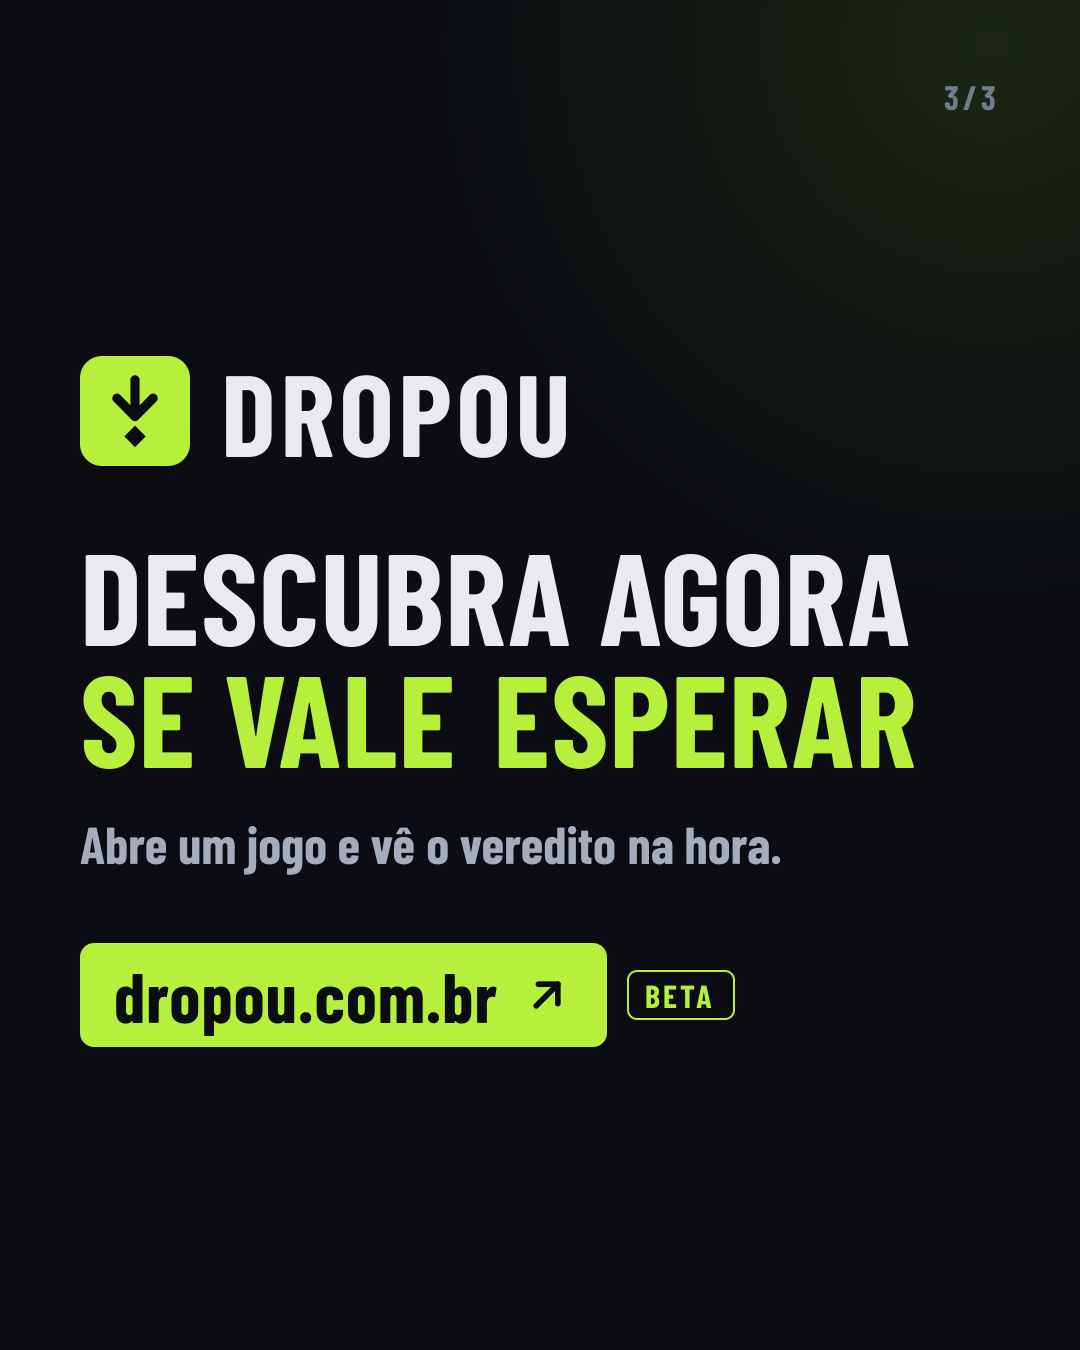
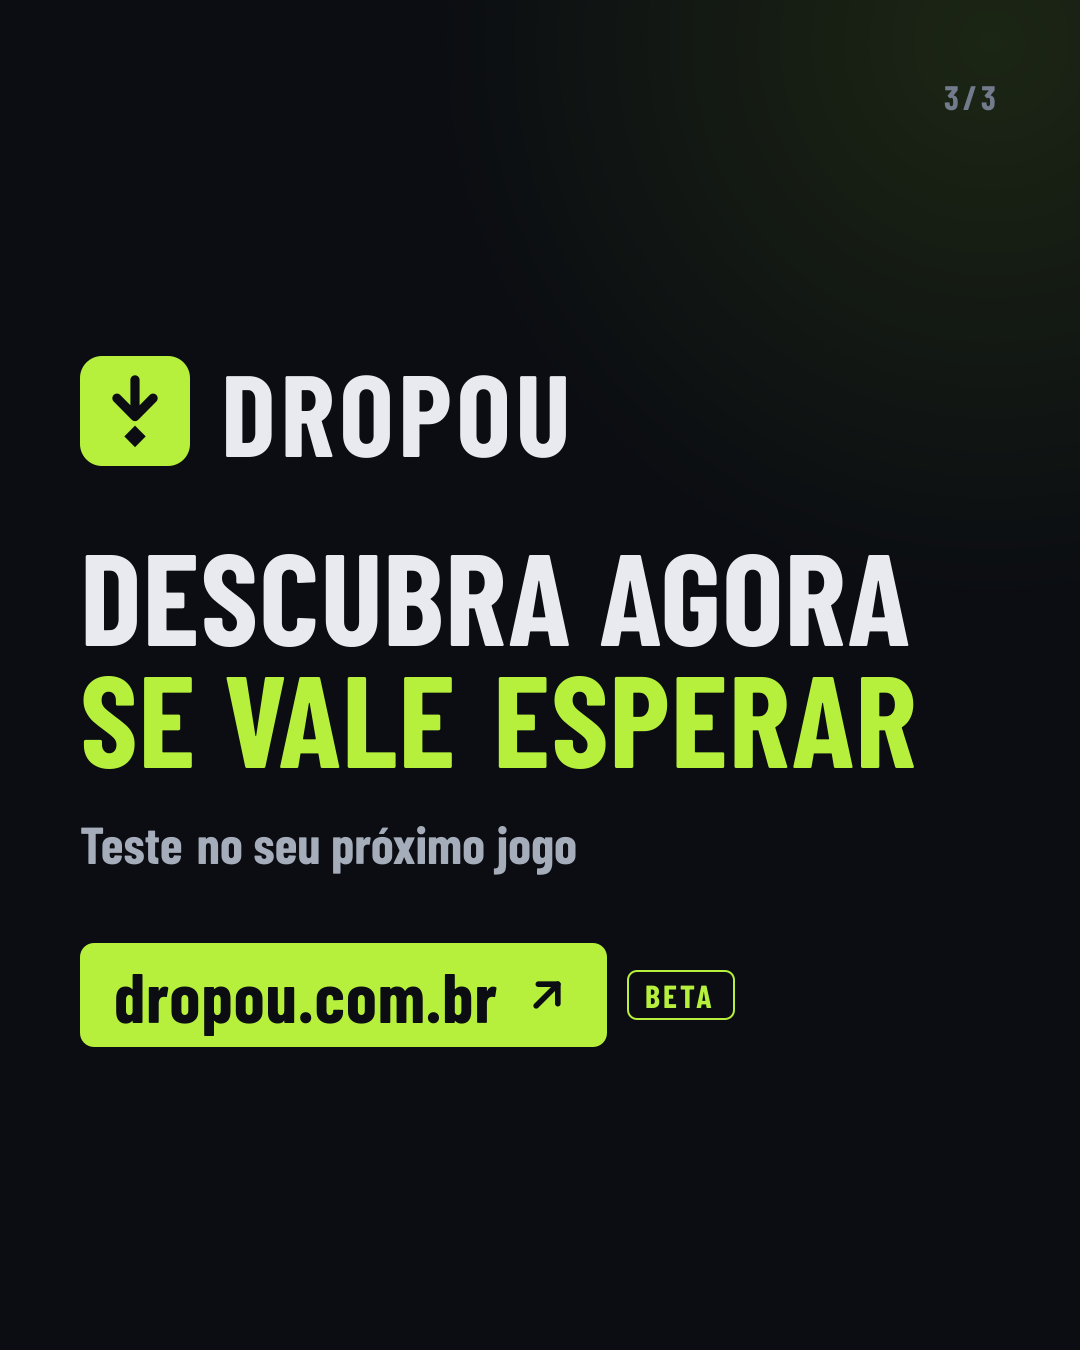
Media kit: frase do último slide

Changed region(s): [[0.0611, 0.5911, 0.7333, 0.6533]]

diff --git a/scripts/instagram-vale-esperar.tsx b/scripts/instagram-vale-esperar.tsx
@@ -236,7 +236,7 @@ const buildSlides = (wait: Example, buy: Example): ReactNode[] => [
     <div style={{ display: "flex", marginTop: 64 }}>
       <Big size={130} lines={[["Descubra agora"], ["se vale esperar", true]]} />
     </div>
-    <Sub size={52}>Abre um jogo e vê o veredito na hora.</Sub>
+    <Sub size={52}>Teste no seu próximo jogo</Sub>
     <div style={{ display: "flex", alignItems: "center", gap: 20, marginTop: 70 }}>
       <div style={{ display: "flex", alignItems: "center", gap: 22, fontSize: 70, background: C.accent, color: C.ink, borderRadius: 14, padding: "10px 34px", letterSpacing: 1 }}>
         {BRAND.domain}
